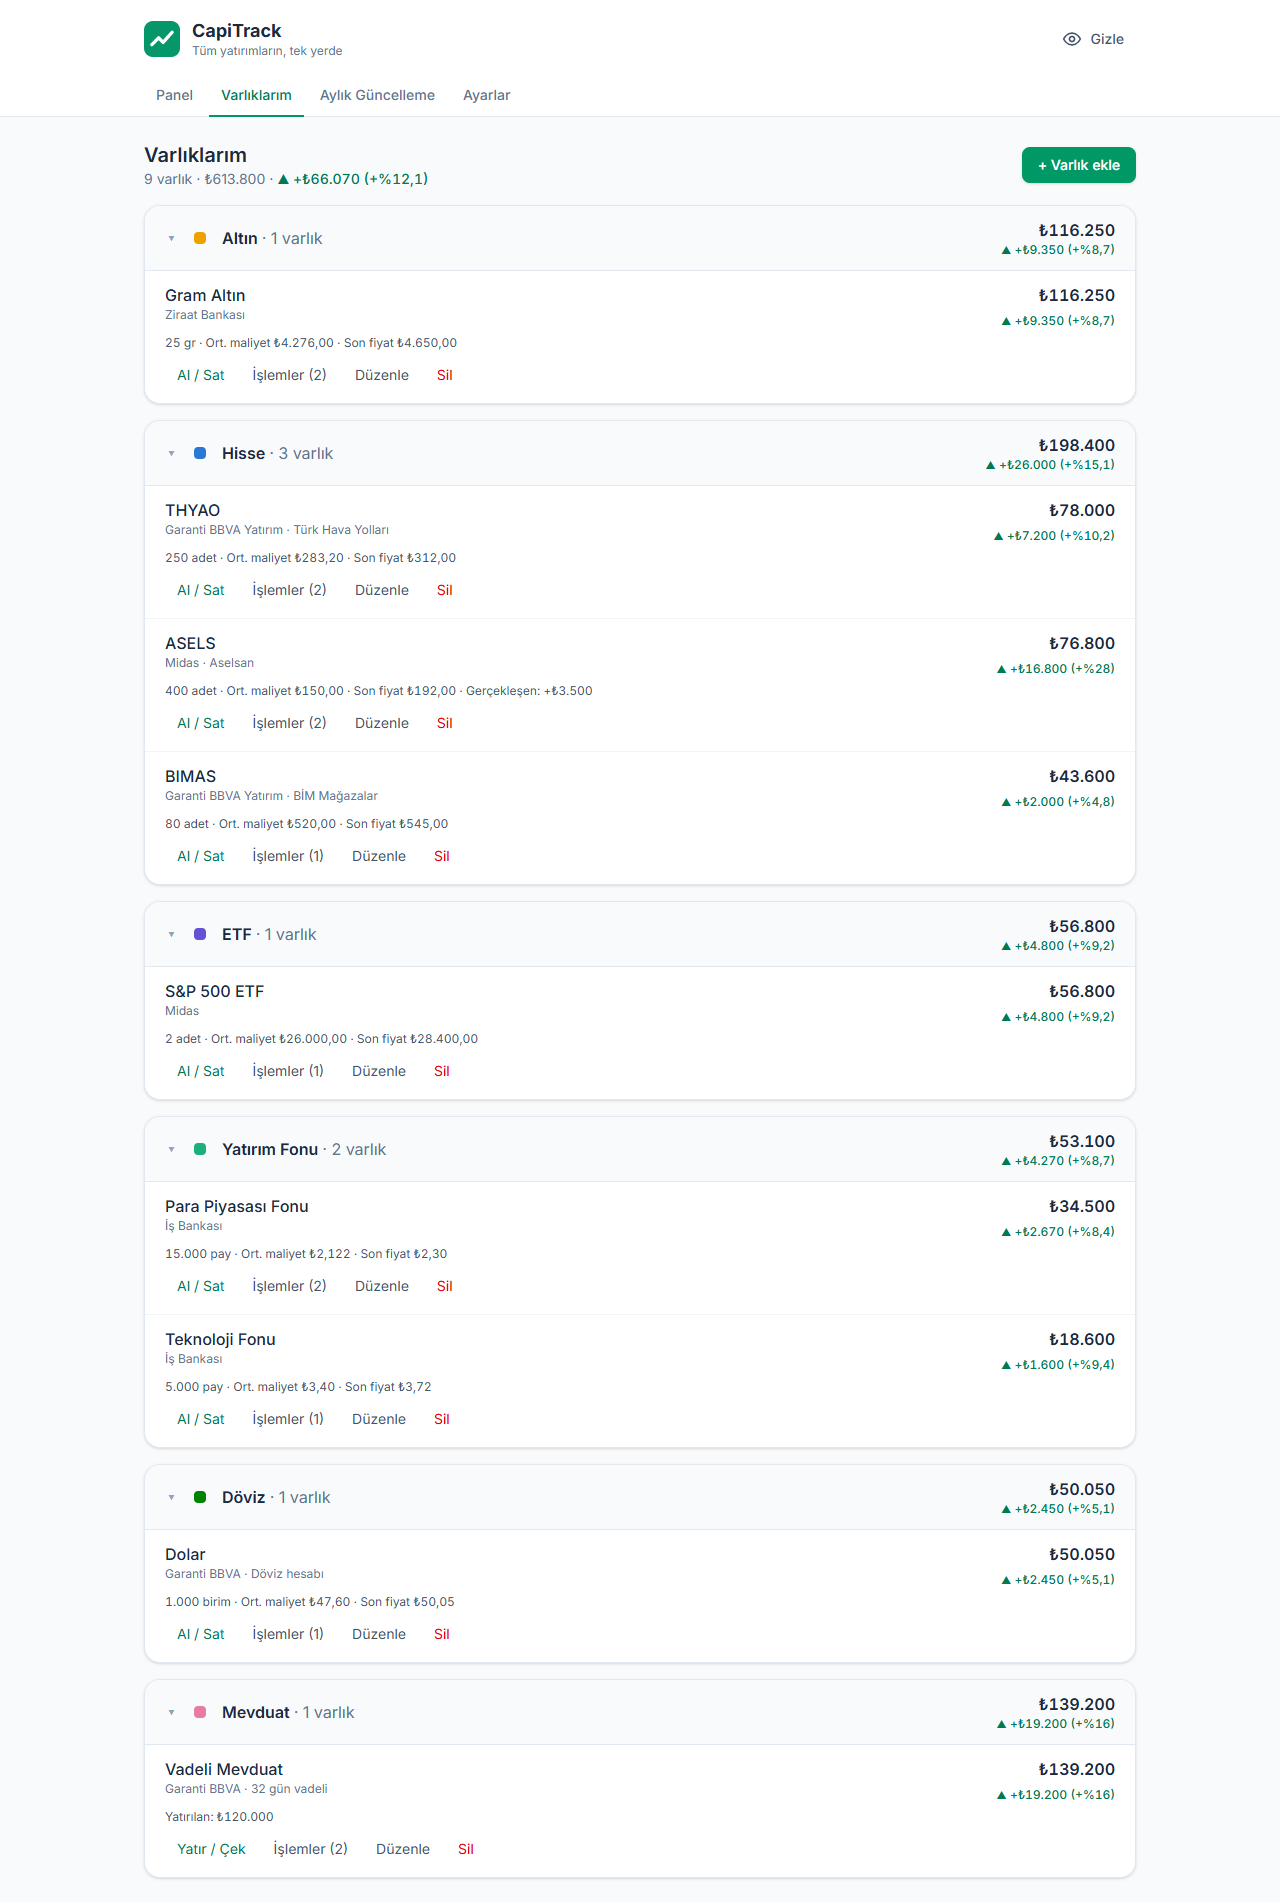
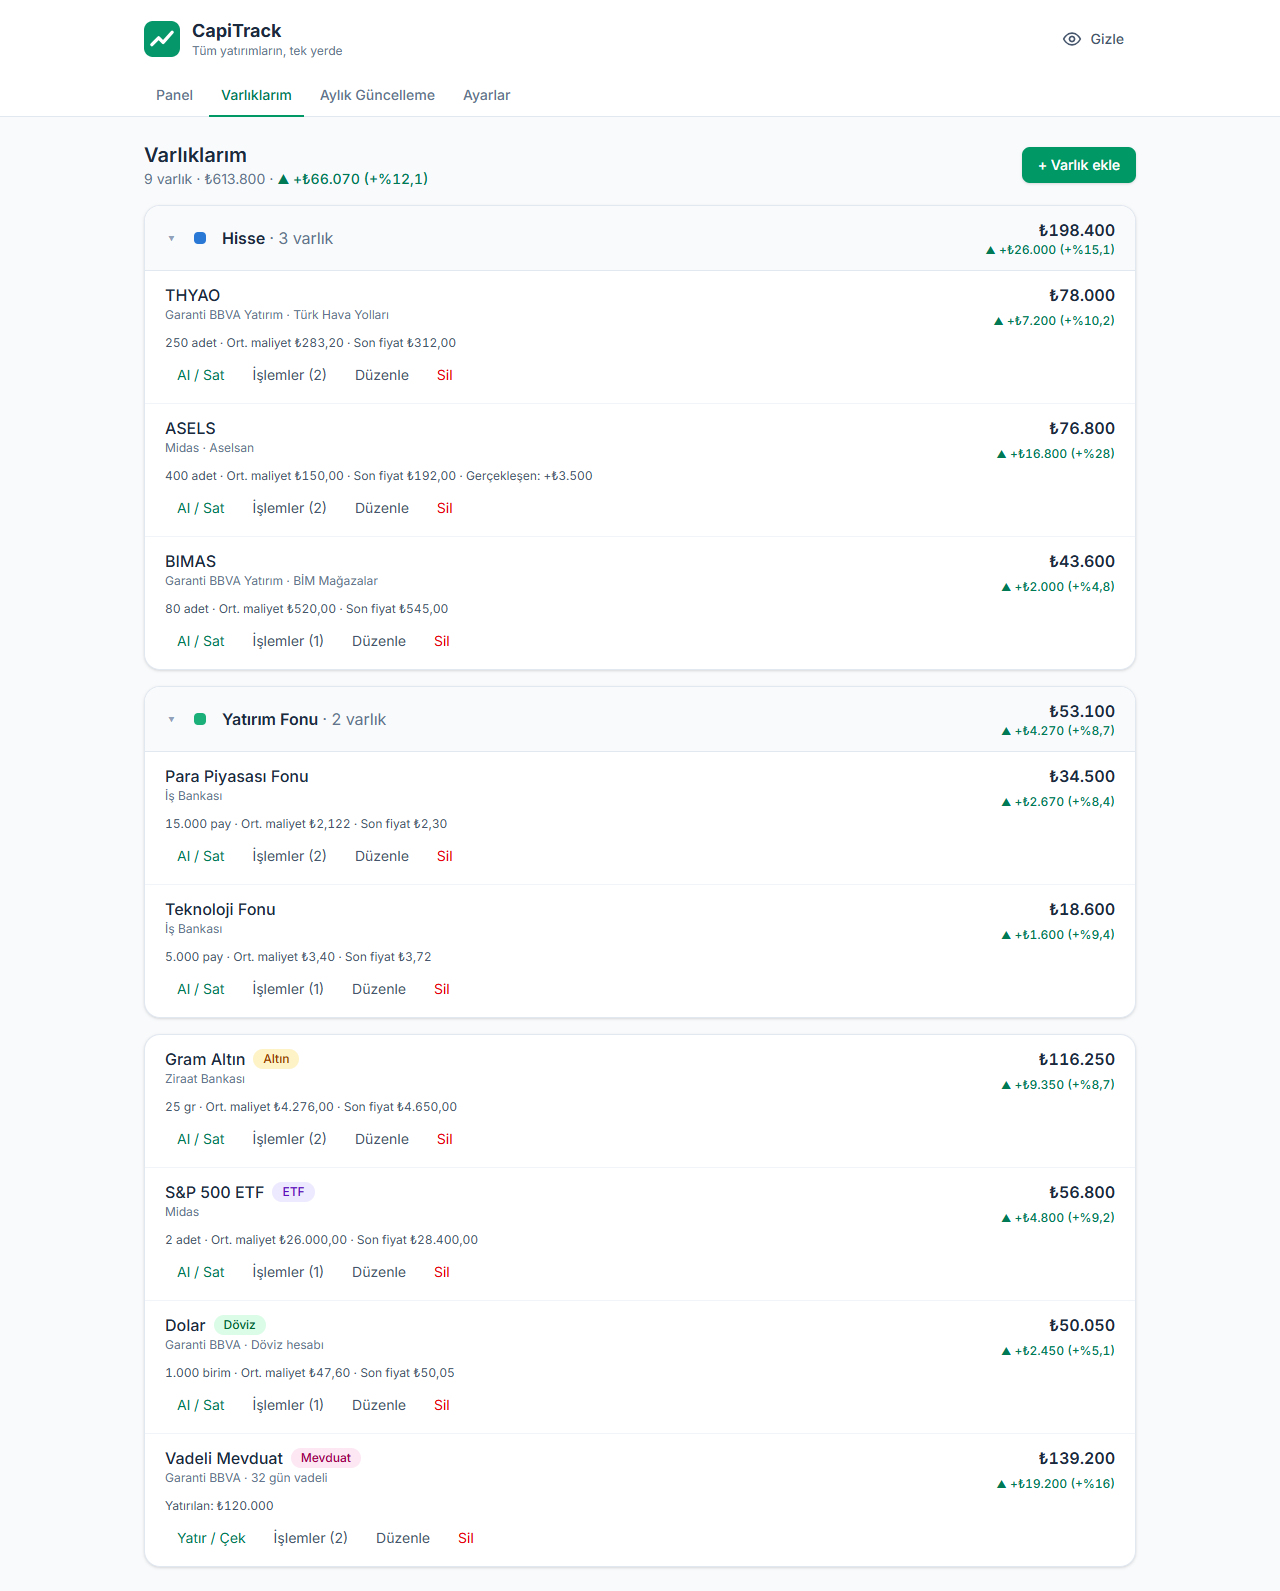
README ve ekran görüntülerini benchmark kartları ve yeni gruplama ile güncelle

diff --git a/README.md b/README.md
@@ -27,12 +27,14 @@
 ## Özellikler
 
 - **Panel:** toplam varlık; *bu ayki getiri* (para ekleyip çıkarmanın etkisi ayıklanmış hâliyle); toplam *kâr / zarar* (değer − maliyet, ayrıca satışlardan gerçekleşen kâr). Grafiklerde aylara göre toplam değer ile yatırılan maliyet aynı çizgi grafikte gösterilir; türe göre ve kuruma göre dağılım da panelde yer alır.
+- **Enflasyona göre reel getiri:** portföyün getirisi, girilen yıllık enflasyon (TÜFE) oranıyla Fisher denklemi kullanılarak karşılaştırılır. Sonuç `Reel Kazanç: +%X (Satın Alma Gücü Arttı)` ya da `Reel Kayıp: −%X` olarak gösterilir. Kartta nominal getiri, aynı dönemdeki enflasyon ve satın alma gücünü korumak için gereken değer de yazar. Varsayılan oran %40'tır; değiştirilen oran hatırlanır.
+- **Sadece mevduat olsaydı (fırsat maliyeti):** her alış, kendi tarihinde mevduata yatırılmış gibi girilen yıllık faizle bugüne büyütülür. Portföyün bugünkü değeri bu sanal mevduatla karşılaştırılır: `Faize göre +₺X daha kârlı (+%Y Alfa)` ya da `Faizin ₺X gerisinde`. Varsayılan faiz %45'tir; değiştirilen oran hatırlanır.
 - **Çubuk / Pasta görünümü:** türe göre dağılım, bölümlü çubuk veya halka (pasta) grafik olarak gösterilebilir. Pastada bir dilimin ya da listedeki bir türün üzerine gelince halkanın ortasında o türün tutarı ve payı görünür.
 - **TL / Dolar:** toplam varlığa tıklayınca TL ile dolar arasında geçiş yapılır. Kur, ücretsiz bir servisten (Avrupa Merkez Bankası referans kuru) alınır ve 6 saat önbellekte tutulur; internet yoksa en son alınan kur kullanılır.
 - **Gizlilik modu:** üst menüdeki göz ikonu, kafe veya kütüphane gibi ortak alanlarda tüm tutarları tek tıkla `₺***,**` olarak gizler. Değer giriş kutuları bulanıklaşır, kutuya tıklayınca netleşir. Tercih hatırlanır.
 - **Hedef:** bir birikim hedefi (ör. ev peşinatı) belirlenir; portföyün hedefe oranı ilerleme çubuğuyla gösterilir. Aylık ekleme ve beklenen yıllık reel getiriyle, bileşik getiri hesabı yapılarak hedefe kaç ay sonra ulaşılacağı tahmin edilir.
 - **Varlıklarım:** varlık ekleme, düzenleme ve silme. Her varlığın türü (Altın, Hisse, ETF, Yatırım Fonu, Döviz, Mevduat, Kripto, Diğer), kurumu ve notu tutulur. Varlık eklenirken ilk alış da aynı formda girilebilir.
-- **Türe göre gruplama:** aynı türdeki varlıklar (ör. THYAO, BIMAS, ASELS → *Hisse*) tek bir başlık altında listelenir. Grup başlığında toplam değer ve grubun kâr/zarar yüzdesi yazar; her varlığın kendi kâr/zararı da satırında görünür. Gruplar açılıp kapatılabilir ve bu tercih hatırlanır. Gruplama hem *Varlıklarım* hem *Aylık Güncelleme* ekranında vardır.
+- **Türe göre gruplama:** aynı türden birden fazla varlık varsa (ör. THYAO, BIMAS, ASELS → *Hisse*) bunlar tek bir başlık altında, listenin en üstünde gösterilir. Grup başlığında toplam değer ve grubun kâr/zarar yüzdesi yazar; her varlığın kendi kâr/zararı da satırında görünür. Gruplar açılıp kapatılabilir ve bu tercih hatırlanır. Türünde tek olan varlıklar gruplanmaz; altta, adlarının yanında renkli tür etiketiyle listelenir. Aynı türden ikinci bir varlık eklenince (ör. gram altının yanına altın sertifikası) o tür kendiliğinden gruba dönüşür. Gruplama hem *Varlıklarım* hem *Aylık Güncelleme* ekranında vardır.
 - **Alış / satış işlemleri:** her varlık için tarih, adet ve birim fiyatla alış veya satış kaydedilir. Mevduat gibi tutarla takip edilen varlıklarda bunun yerine *Yatır / Çek* kullanılır. Elde olandan fazla satış yapılamaz. Satış formu, kaydetmeden önce tahmini gerçekleşen kâr/zararı gösterir. Her varlığın işlem geçmişi listelenir ve yanlış girilen işlem silinebilir.
 - **Ağırlıklı ortalama maliyet:** kâr/zarar, bankaların kullandığı ağırlıklı ortalama maliyet yöntemiyle hesaplanır (ayrıntısı aşağıda). Yeni alış yapmak kâr, satış yapmak zarar gibi görünmez.
 - **Aylık Güncelleme:** bir ay seçilir ve tüm varlıkların o ayki **birim fiyatı** (gram fiyatı, hisse fiyatı, kur…) tek ekranda girilir. Değer `adet × fiyat` olarak anlık hesaplanır. Mevduatta doğrudan bakiye yazılır. Alanlar son bilinen fiyatla hazır gelir. Ay toplamı ve para girişi/çıkışı ayıklanmış aylık getiri, formun altında görünür.
@@ -94,6 +96,7 @@ src/
 │   └── Settings.jsx        Ayarlar: yedekleme, Excel, örnek veri, sıfırlama
 ├── components/
 │   ├── TotalTile.jsx       Toplam varlık kartı (TL / Dolar geçişi)
+│   ├── BenchmarkCards.jsx  Reel getiri ve "sadece mevduat olsaydı" kartları
 │   ├── GoalCard.jsx        Hedef kartı ve hedef formu
 │   ├── TypeDistribution.jsx Türe göre dağılım (çubuk / pasta)
 │   ├── AssetGroup.jsx      Açılıp kapanan tür grubu (toplam değer ve kâr/zarar)
@@ -110,9 +113,10 @@ src/
     ├── analytics.js        Ağırlıklı ortalama maliyet motoru, aylık toplamlar, dağılım, işlem kontrolü
     ├── trade.js            Alış / satış formunun okunması ve kontrolü
     ├── goal.js             Bileşik getiri ve hedefe ulaşma süresi hesabı
+    ├── benchmark.js        Para akışlarının enflasyon / mevduat faiziyle büyütülmesi, Fisher denklemi
     ├── fx.js               Dolar/TL kurunun alınması ve önbelleklenmesi
     ├── exportExcel.js      Excel dosyasının oluşturulması
-    ├── prefs.js            Tercihlerin hatırlanması (gizlilik, para birimi, görünüm)
+    ├── prefs.js            Tercihlerin hatırlanması (gizlilik, para birimi, görünüm, enflasyon ve faiz oranı)
     ├── format.js           Para, yüzde, tarih biçimleri, gizlilik maskesi, Türkçe sayı okuma
     ├── constants.js        Yatırım türleri, renkleri, birimleri ve gruplama
     └── demoData.js         Örnek portföy
@@ -147,7 +151,7 @@ Tüm veri tarayıcıda `capitrack:data` anahtarı altında tek bir JSON nesnesi 
 
 Miktar, maliyet ve değer veride saklanmaz; her açılışta işlemlerden ve fiyatlardan yeniden hesaplanır. Böylece bir işlem silindiğinde ya da düzeltildiğinde tüm geçmiş kendiliğinden doğru kalır.
 
-Gizlilik modu, para birimi, grafik görünümü ve kapalı gruplar gibi tercihler portföy verisinden ayrı anahtarlarda (`capitrack:privacy` vb.) tutulur ve yedeğe dahil edilmez.
+Gizlilik modu, para birimi, grafik görünümü, kapalı gruplar, enflasyon ve mevduat faizi oranı gibi tercihler portföy verisinden ayrı anahtarlarda (`capitrack:privacy` vb.) tutulur ve yedeğe dahil edilmez.
 
 > **Sürüm geçişi:** İlk sürüm (`version: 1`) her ay için sadece toplam değer tutuyordu; bu bilgiden adet ve maliyet çıkarılamadığı için eski veri yeni modele çevrilmez. Uygulama eski veriyi `capitrack:data:v1-yedek` anahtarına yedekleyip boş başlar.
 
@@ -175,6 +179,19 @@ FV(n) = P·(1+r)ⁿ + C·((1+r)ⁿ − 1) / r        →        n = ln((H·r + C
 
 `P` bugünkü portföy, `C` aylık ekleme, `H` hedef ve `r` aylık getiri oranıdır. Yıllık oran aylığa bileşik olarak çevrilir: `r = (1 + yıllık)^(1/12) − 1` (yıllık %10 → aylık yaklaşık %0,797).
 
+### Reel getiri ve mevduat karşılaştırması
+
+İki kart da aynı yöntemi kullanır: her para girişi (alış, mevduata yatırma) ve çıkışı (satış, çekme) kendi tarihinden bugüne yıllık oranla bileşik büyütülür. Girişler artı, çıkışlar eksi sayılır.
+
+```
+Büyütülmüş tutar = Σ Tutar · (1 + oran)^(gün / 365)
+```
+
+- **Sadece mevduat olsaydı:** oran olarak mevduat faizi kullanılır. Çıkan toplam, aynı para aynı tarihlerde mevduata yatırılsaydı bugün ulaşacağı değerdir. Fark = portföy değeri − sanal mevduat; alfa = portföy ÷ sanal mevduat − 1. Satışlar mevduattan para çekmek gibi düşülür; böylece satış yapmak portföyü haksız yere faizin gerisinde göstermez.
+- **Reel getiri (Fisher):** `reel = (1 + r) / (1 + i) − 1`. Burada `r` portföyün yatırılan net paraya göre nominal getirisidir. `i` ise yıllık enflasyon değil, aynı para akışlarının yatırıldıkları süre boyunca gördüğü enflasyondur (yukarıdaki formül, oran olarak enflasyonla uygulanır). Portföy bir yıldan kısa süredir varsa yıllık oranı doğrudan kullanmak dönemleri uyuşmaz hâle getirir. Örnek: 6 ay önce yatırılan para için yıllık %40 enflasyon, dönem enflasyonu olarak yaklaşık %18'e karşılık gelir.
+
+Girilen faiz yıllık bileşik oran olarak kabul edilir. Bankaların ilan ettiği oran genelde basit faizdir ve stopaj kesilir; daha adil bir karşılaştırma için net oran yazılmalıdır.
+
 Veri sadece kullanıldığı tarayıcıda durur. Başka bir cihaza taşımak veya kaybetmemek için **Ayarlar → Yedeği indir** kullanılır.
 
 ## Yapay zekanın kullanımı
@@ -187,7 +204,7 @@ Proje, VS Code içinde **Claude Code** eklentisiyle (model: Claude Opus 5.5) gel
 | **Planlama** | Claude'a proje yönergesi ve fikir verilerek bir yol haritası istendi. Teknoloji seçimi (React + Vite, Tailwind, Recharts) ve aşamalar birlikte planlandı. |
 | **Kurulum** | Claude, Vite projesini oluşturdu, Tailwind ve Recharts'ı kurdu, Git deposunu başlattı ve GitHub Pages için otomatik yayın iş akışını yazdı. |
 | **Geliştirme** | Bileşenler aşama aşama üretildi: varlık yönetimi → aylık güncelleme → panel ve grafikler → yedekleme ve örnek veri. "Son bilinen değer" kuralı ve dağılım için bölümlü çubuk kullanımı gibi tasarım kararları gerekçeleriyle önerildi ve onaylandı. Grafik renkleri renk körlüğü testinden geçirildi. |
-| **Yeni özellikler** | Temel uygulama bittikten sonra proje sahibinin istediği özellikler eklendi: çubuk / pasta görünüm seçici, TL / Dolar geçişi, gizlilik modu, Excel'e aktarma ve bileşik getirili hedef hesabı. Kur servisleri önceden test edilip tarayıcıdan erişime izin verdikleri doğrulandı. Hedef formülü, hedefe ulaşılan ay ile bir önceki ayın birikimi karşılaştırılarak kontrol edildi. Ardından aynı türdeki varlıkların gruplanması ve ağırlıklı ortalama maliyet sistemine geçildi. Bu değişiklikte veri modeli "aylık toplam değer"den "işlemler + aylık birim fiyat"a çevrildi. Eski veriyi dönüştürmek ile sıfırdan başlamak arasındaki seçim ve aylık girişin birim fiyatla mı toplam değerle mi yapılacağı, artıları ve eksileriyle proje sahibine soruldu; kararları proje sahibi verdi. |
+| **Yeni özellikler** | Temel uygulama bittikten sonra proje sahibinin istediği özellikler eklendi: çubuk / pasta görünüm seçici, TL / Dolar geçişi, gizlilik modu, Excel'e aktarma ve bileşik getirili hedef hesabı. Kur servisleri önceden test edilip tarayıcıdan erişime izin verdikleri doğrulandı. Hedef formülü, hedefe ulaşılan ay ile bir önceki ayın birikimi karşılaştırılarak kontrol edildi. Ardından aynı türdeki varlıkların gruplanması ve ağırlıklı ortalama maliyet sistemine geçildi. Bu değişiklikte veri modeli "aylık toplam değer"den "işlemler + aylık birim fiyat"a çevrildi. Eski veriyi dönüştürmek ile sıfırdan başlamak arasındaki seçim ve aylık girişin birim fiyatla mı toplam değerle mi yapılacağı, artıları ve eksileriyle proje sahibine soruldu; kararları proje sahibi verdi. Proje sahibinin hazırladığı ayrıntılı istekle "Benchmark & Fırsat Maliyeti" kartları eklendi. Claude, istekteki Fisher formülünde portföyün toplam getirisi ile yıllık enflasyonun farklı dönemlere ait olduğunu fark etti; enflasyonu da para akışlarının tarihlerine göre dönemleştirerek düzeltti. Satışların mevduattan para çekmek gibi düşülmesini de ekledi. Canlı fiyat çekme fikri için ücretsiz fiyat kaynakları tek tek denendi: döviz, kripto ve altın kaynakları tarayıcıdan erişime izin veriyor; BIST hisseleri ve TEFAS fonları ise CORS engeline takılıyor. Bu analiz proje sahibine sunuldu. |
 | **Hata ayıklama** | Klasör adındaki `;` yüzünden `vite` komutunun bulunamaması teşhis edilip çözüldü. Kullanıcının bildirdiği "kurum öneri listesinin yanlış yerde açılması" hatası, tarayıcının `<datalist>` özelliğinin Windows ekran ölçeklendirmesindeki sorununa bağlanıp kendi bileşenle değiştirildi. Zaman aşımına uğrayan GitHub Pages yayını, action sürümleri güncellenerek düzeltildi. Ekran görüntüleri incelenerek animasyon, yüzde biçimi ve eksen etiketi sorunları bulundu ve giderildi. Kullanıcının bildirdiği "pasta grafikte yazıların üst üste binmesi" sorunu, ipucu kutusu yerine halkanın ortasında bilgi gösterilerek; "grafiğe tıklayınca çıkan çerçeve" sorunu ise fare tıklamasında odak çerçevesi gizlenip klavye odağında korunarak çözüldü. Telefonda Aylık Güncelleme satırlarında uzun varlık adının giriş kutusuyla üst üste binmesi, satır esnek ızgaraya çevrilerek giderildi. |
-| **Doğrulama** | Üretilen kod her aşamada derlendi ve linter'dan geçirildi. Sayı okuma, aylık toplam, yedek doğrulama ve hedef hesabı fonksiyonları örnek verilerle test edildi. Ortalama maliyet ve gerçekleşen kâr hesapları elle hesaplanan örneklerle (ör. THYAO ₺283,20 / +₺1.840) karşılaştırıldı. Fazla satışın engellenmesi ve eski sürüm verisinin yedeklenmesi de otomatik tarayıcı testine eklendi. Arayüz, otomatik kontrol edilen bir tarayıcıda (Edge + Puppeteer) butonlara tıklanarak denendi; indirilen Excel dosyası hücre hücre okunup kontrol edildi. Proje sahibi her aşamayı tarayıcıda elle test etti. |
+| **Doğrulama** | Üretilen kod her aşamada derlendi ve linter'dan geçirildi. Sayı okuma, aylık toplam, yedek doğrulama ve hedef hesabı fonksiyonları örnek verilerle test edildi. Ortalama maliyet ve gerçekleşen kâr hesapları elle hesaplanan örneklerle (ör. THYAO ₺283,20 / +₺1.840) karşılaştırıldı. Fazla satışın engellenmesi ve eski sürüm verisinin yedeklenmesi de otomatik tarayıcı testine eklendi. Reel getiri ve mevduat hesapları elle sağlanabilen örneklerle test edildi (ör. 1 yıl önce ₺100, bugün ₺150, %40 enflasyon → reel +%7,14; %45 faiz → mevduat ₺145). İki oran eşit girildiğinde iki kartın aynı tutarı verdiği de doğrulandı. Arayüz, otomatik kontrol edilen bir tarayıcıda (Edge + Puppeteer) butonlara tıklanarak denendi; indirilen Excel dosyası hücre hücre okunup kontrol edildi. Proje sahibi her aşamayı tarayıcıda elle test etti. |
 | **Dokümantasyon** | Bu README ve ekran görüntüleri Claude tarafından hazırlandı. |
